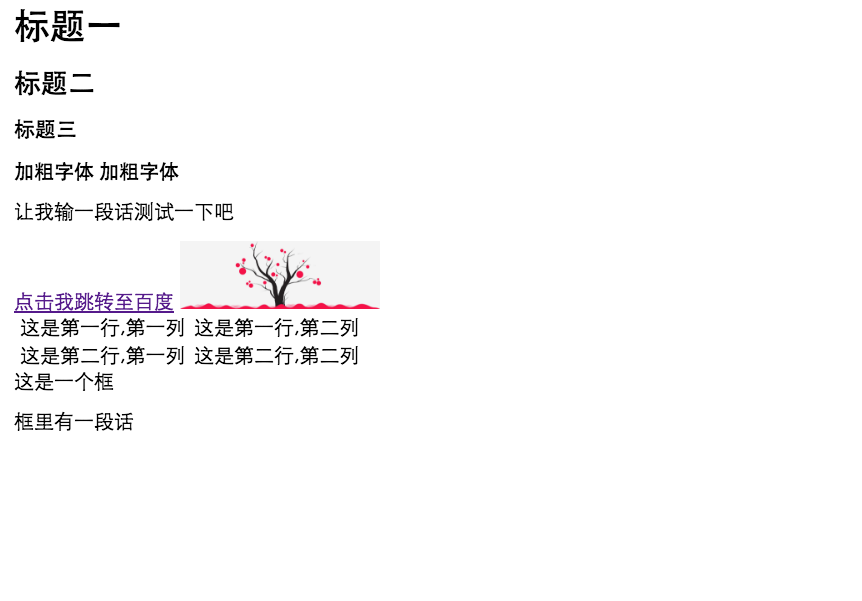
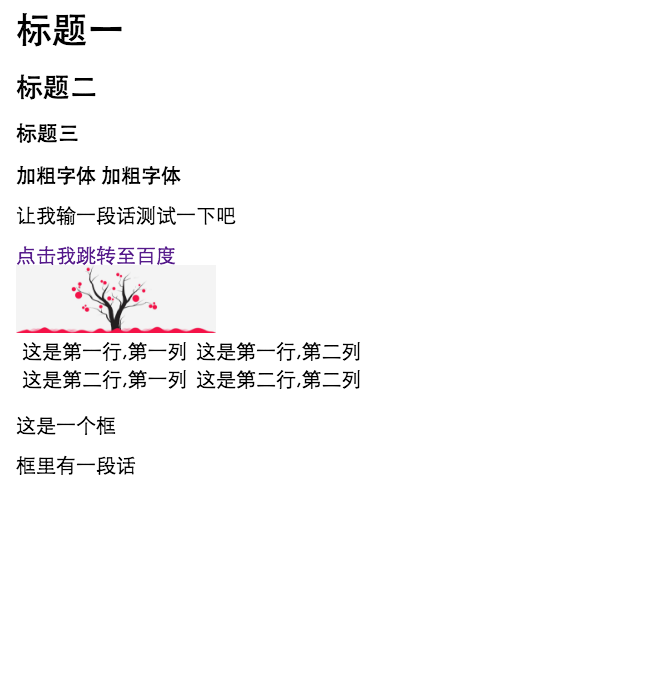
修改

Changed region(s): [[0.0, 0.0, 0.5365, 0.7188]]

diff --git a/lesson_2/lesson_2.html b/lesson_2/lesson_2.html
@@ -13,6 +13,7 @@
         <!-- 就像word里面的标题一样h3代表稍小字号标题 -->
         <h3>标题三</h3>
 
+
         <!-- strong算是标准的加粗方式 -->
         <strong>加粗字体</strong>
         <!-- b标签和word中的b加粗一致,这个标签当初是微软为IE浏览器创建的后来被其他浏览器兼容 -->
@@ -27,12 +28,16 @@
          -->
         <a href="https://www.baidu.com" >点击我跳转至百度</a>
 
+        <!-- <br/> 表示换行,相当于在word里面敲击了一个回车 -->
+        <br/>
+
         <!-- 插入一张图片
              src="" 其中双引号之间添加的是图片的网址
              width="" 其中双引号之间表示图片的宽度,100是实际值,而px表示单位像素
         -->
         <img src="https://www.800zf.cn/plugins/scollIt/images/2.png" width="100px" />
 
+        <br/>
         <!-- 最常用的一个word功能,表格
             <table></table>表示定义一个表格
             <tr></tr>表示一行
@@ -49,6 +54,7 @@
             </tr>
         </table>
 
+        <br/>
         <!-- div表示定义一个框,范围,你可以在框内写任何以上的东西,当然它也包含另外一个框(div) -->
         <div>这是一个框</div>
         <div>
